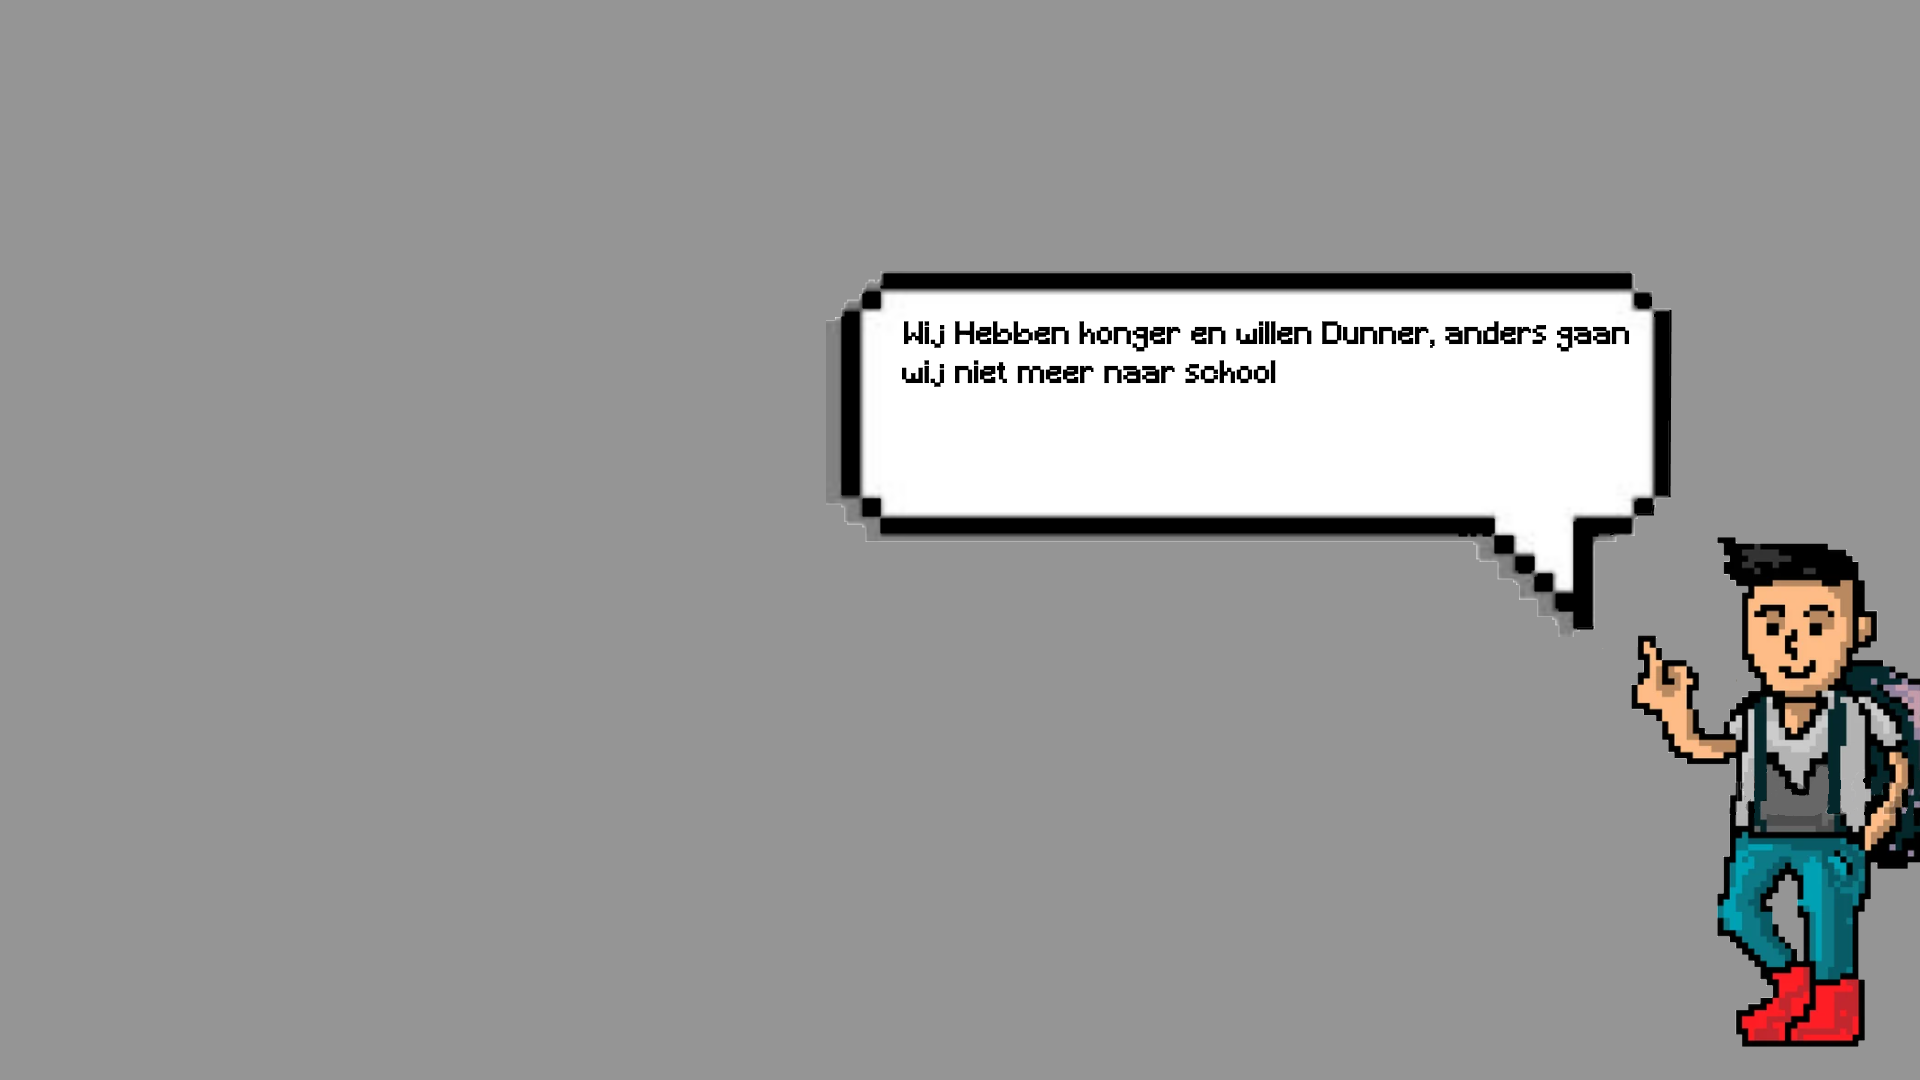
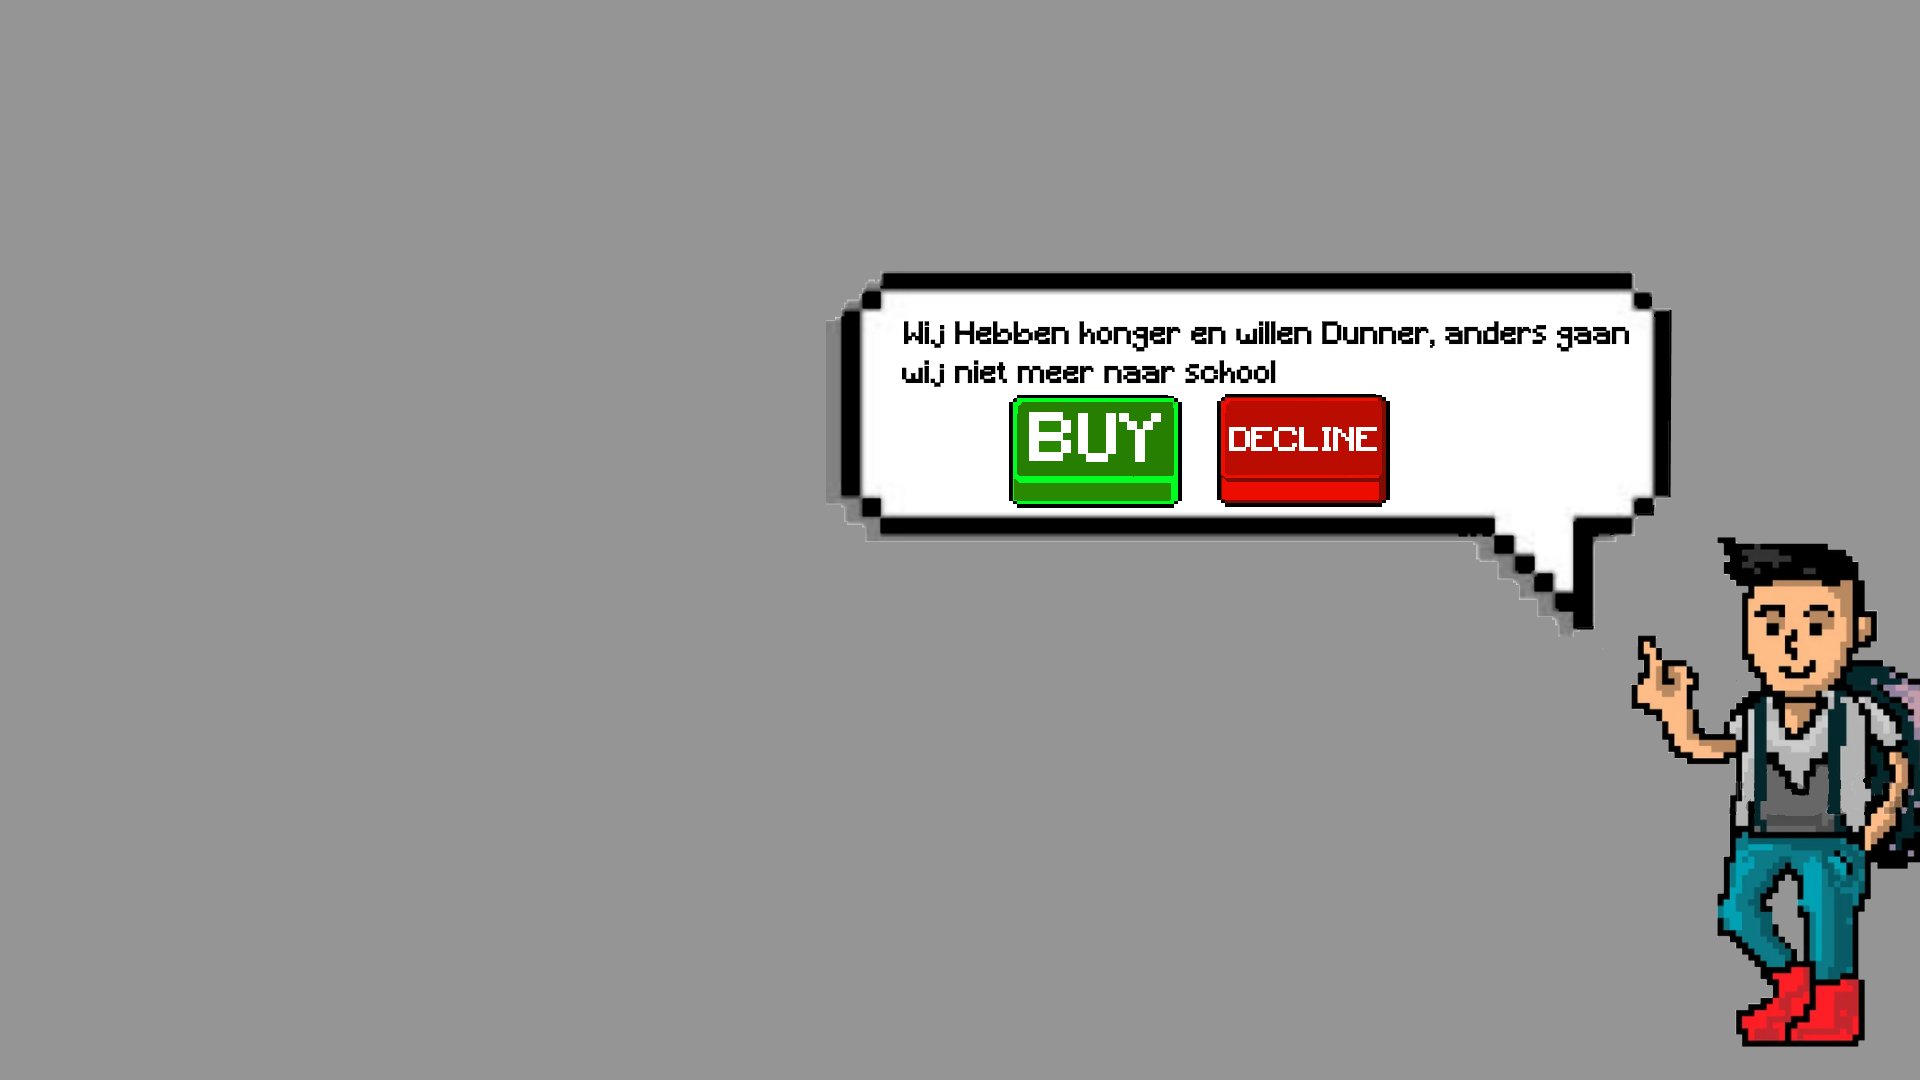
doner break done + fixed lag bug caused when previewing buildings

Changed region(s): [[0.5, 0.3667, 0.75, 0.4889]]

diff --git a/src/GamePanel.java b/src/GamePanel.java
@@ -426,14 +426,7 @@ public class GamePanel extends JPanel implements Runnable, MouseListener {
 
     }
     public void drawDonerBreak(Graphics2D g2D) {
-        //TODO DRAW GUY THAT POPS UP AND SHOWS BUY OR DECLINE MENU
         g2D.drawImage(image.donerGuy,0,0,null);
-
-        g2D.setColor(Color.GREEN);
-        g2D.fillRect(1000,425,200,75);
-
-        g2D.setColor(Color.RED);
-        g2D.fillRect(1250,425,200,75);
     }
     public void drawSettingsScreen(Graphics2D g2D) {
         g2D.drawImage(image.settingsMenu,0,0,null);
@@ -449,7 +442,6 @@ public class GamePanel extends JPanel implements Runnable, MouseListener {
 
             if (!blink) {
                 g2D.drawImage(image.buildingListRedBuilding.get(gameState),placeBuildingX,placeBuildingY,null);
-                g2D.drawImage(image.buildingListYellowBuilding.get(gameState - image.buildingListRedBuilding.size()),placeBuildingX,placeBuildingY,null);
             }
 
         }
